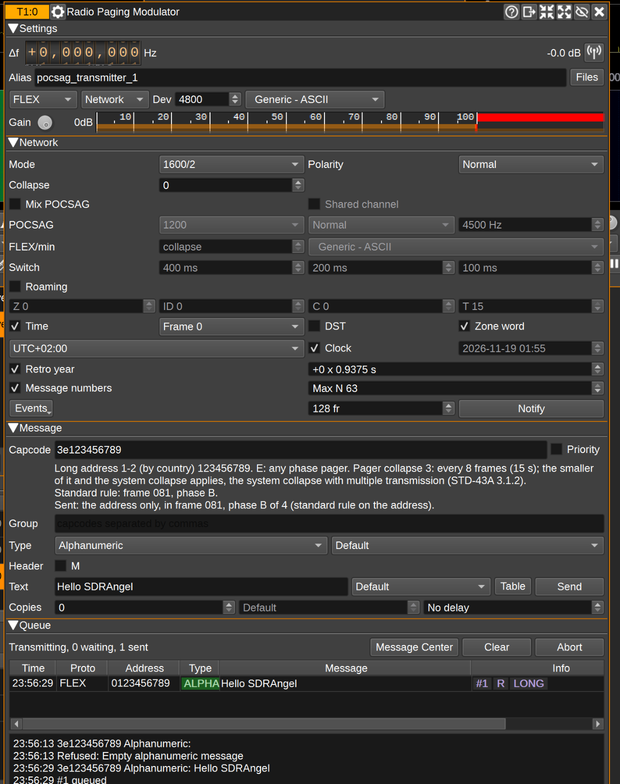
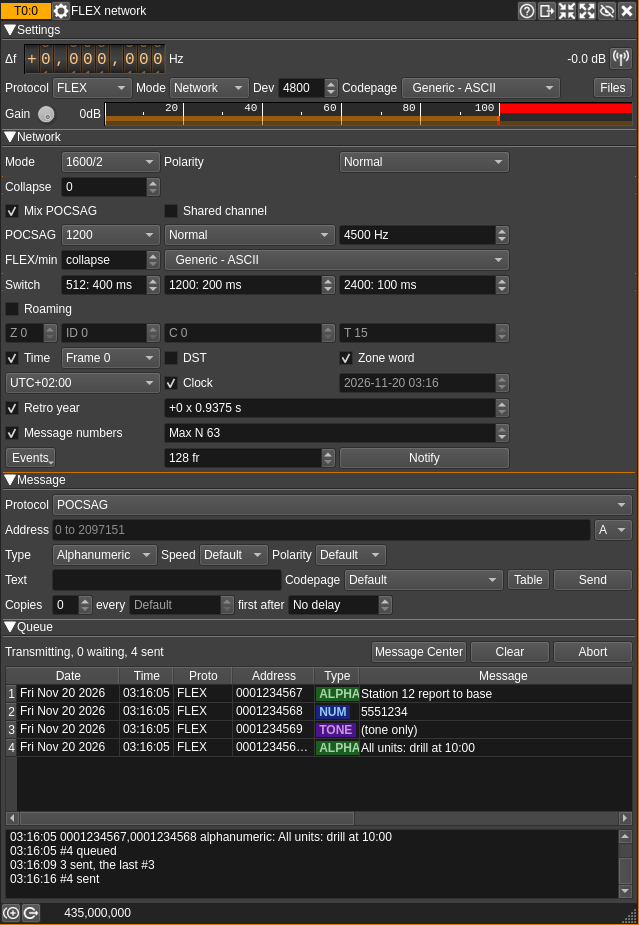
Radio paging modulator: messages table shows a few rows, labels; readme screenshots
The table of the messages sent shows four rows in a new window. The
switch times of POCSAG mixed into FLEX are named by their speed; the
codepage label goes with its list (GSC has none); the voice length is
in seconds (suffix); the function list of the address shows its items
whole. The screenshots of the modulator (FLEX network, POCSAG, GSC) are
those of the current window.

diff --git a/plugins/channeltx/modradiopaging/radiopagingmodgui.cpp b/plugins/channeltx/modradiopaging/radiopagingmodgui.cpp
@@ -16,6 +16,7 @@
 ///////////////////////////////////////////////////////////////////////////////////
 
 #include <QDateTime>
+#include <QHeaderView>
 #include <QTimeZone>
 #include <QDateTimeEdit>
 #include <QDebug>
@@ -1097,6 +1098,14 @@ RadioPagingModGUI::RadioPagingModGUI(PluginAPI* pluginAPI, DeviceUISet *deviceUI
 
     // The log of the requests and events: a few lines under the table of the messages
     ui->log->setMaximumHeight(ui->log->fontMetrics().lineSpacing() * 5 + 2 * ui->log->frameWidth() + 8);
+    // The table of the messages shows a few of them in a new window
+    ui->txLog->setMinimumHeight(ui->txLog->horizontalHeader()->sizeHint().height()
+        + 4 * ui->txLog->verticalHeader()->defaultSectionSize() + 2 * ui->txLog->frameWidth());
+    // The switch times of POCSAG mixed into FLEX, one per speed: named by their speed, as the roaming fields by their
+    // letter
+    ui->mixSwitch512->setPrefix("512: ");
+    ui->mixSwitch1200->setPrefix("1200: ");
+    ui->mixSwitch2400->setPrefix("2400: ");
     rollupContents->arrangeRollups();
     connect(rollupContents, SIGNAL(widgetRolled(QWidget*,bool)), this, SLOT(onWidgetRolled(QWidget*,bool)));
     connect(this, SIGNAL(customContextMenuRequested(const QPoint &)), this, SLOT(onMenuDialogCalled(const QPoint &)));
@@ -1222,6 +1231,7 @@ void RadioPagingModGUI::displayProtocol()
     PagingComposer::fillCodepages(ui->charset, protocolNames[(int) m_settings.m_protocol], false);
     PagingComposer::selectCodepage(ui->charset, m_settings.charset(m_settings.m_protocol));
     ui->charset->setVisible(RadioPagingCharset::codepages(protocolNames[(int) m_settings.m_protocol]).size() > 1);
+    ui->charsetLabel->setVisible(ui->charset->isVisibleTo(this));
     // The codepages Default stands for in the composer
     ui->composer->setDefaultCodepage("pocsag", m_settings.m_pocsagCharset);
     ui->composer->setDefaultCodepage("flex", m_settings.m_flexCharset);

diff --git a/sdrgui/gui/pagingcomposer.cpp b/sdrgui/gui/pagingcomposer.cpp
@@ -79,6 +79,8 @@ PagingComposer::PagingComposer(QWidget *parent) :
     m_flexValidator = new QRegularExpressionValidator(QRegularExpression("[PQRSpqrs]?[0-9]{0,4}[A-La-lU-Zu-z]?[0-9]{0,10}"), m_address);
     m_address->setValidator(m_digitsValidator);
     m_function = new QComboBox(this);
+    // Its items whole (the function letter and its number)
+    m_function->setSizeAdjustPolicy(QComboBox::AdjustToContents);
     m_capCode = new QLabel(this);
     m_capCode->setWordWrap(true);
     m_priority = new QCheckBox(tr("Priority"), this);
